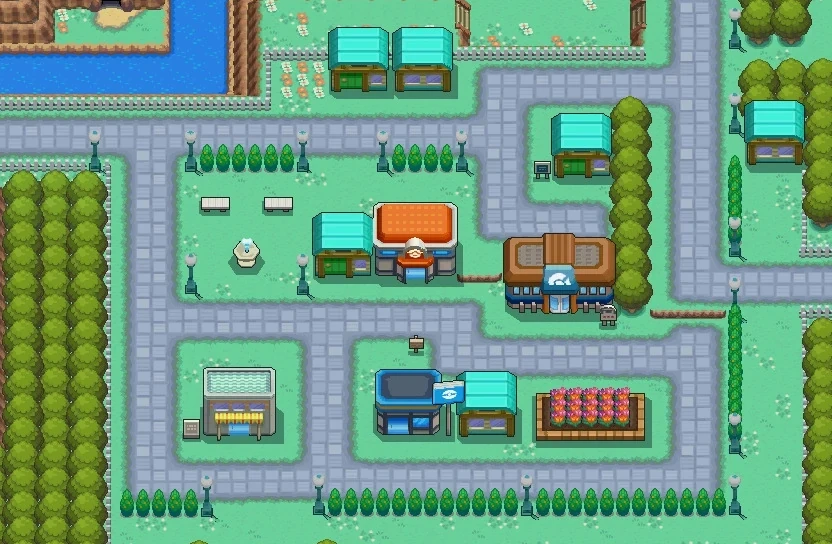
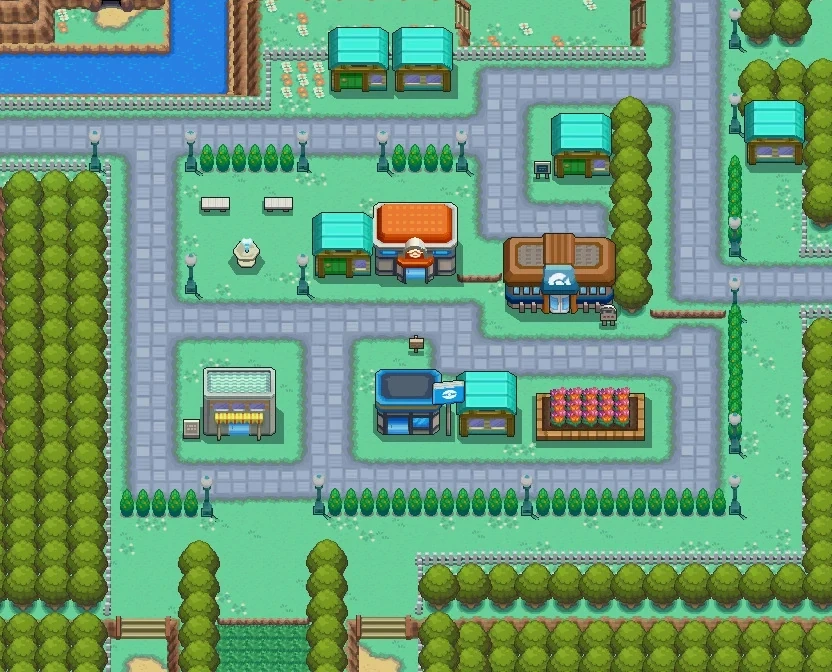
Round 37: all towns, gyms and trainer places

diff --git a/index.html b/index.html
@@ -974,7 +974,7 @@ const countIds=units=>units.reduce((s,u)=>s+u.ids.length,0);
 const answeredIn=(units,ans)=>units.reduce((s,u)=>s+u.ids.filter(id=>id in ans).length,0);
 
 // ---------- state ----------
-const BUILDV='1794760073';
+const BUILDV='1794762364';
 // background music: one track at a time, crossfaded
 const BGM={cur:null,a:null},MUS_OGG=new Set(['mus-route29','mus-cycling','mus-surfing','mus-lab','mus-wild','mus-trainer']);
 function fadeAudio(a,to,ms,done){if(!a)return;clearInterval(a._f);const from=a.volume,t0=performance.now();a._f=setInterval(()=>{const k=Math.min(1,(performance.now()-t0)/ms);a.volume=Math.max(0,Math.min(1,from+(to-from)*k));if(k>=1){clearInterval(a._f);done&&done()}},40)}
@@ -2803,9 +2803,19 @@ function lakeSci(){const el=$('#lksci'),R=S.lakeRes;if(el&&R)el.textContent=ll(`
 // TOWN comes from app/town_build.py (pictures, tile grids, spawn tiles, gym doors, exits, the gym room). A leg = walk to a target
 // (the town's exit arrow or its gym door) on a clock; whoever is late gets Alakazam's teleport (exit) or a Pidgeot ride (door).
 // Legs with balls give the first three an Ultra / Great / Poké Ball for the league ('walk').
-const TOWN=/*TOWN*/{"pallet":{"img":"img/tw-pallet.webp","w":384,"h":400,"t":16,"map":["########################","########################","########################","########################","########################","########################","############gg##########","############gg##########","##gggggggggggggggggggg##","##gggggggggggggggggggg##","##gggggggggggggggggggg##","##ggg#####gggg#####ggg##","##ggg#####gggg#####ggg##","##gg######ggg######ggg##","##gggggggggggggggggggg##","##gggggggggggggggggggg##","##gggggggggggggggggggg##","##ggg#####ggg#######gg##","##ggggggggggg#######gg##","##ggggggggggg#######gg##","##ggg#gggggggggggggggg##","##gggggggggggggggggggg##","##ggggggggggg######ggg##","##ggggg####ggggggggggg##","##ggggg####ggggggggggg##"],"over":[[5,9,9,13,154],[14,9,18,13,154],[13,15,19,19,250]],"spawn":[[8,14],[9,14],[10,14],[11,14],[12,14],[8,15],[9,15],[10,15],[11,15],[12,15],[8,16],[9,16],[10,16],[11,16],[12,16]],"door":null,"exit":[[12,6],[13,6]],"edge":"u"},"pewter":{"img":"img/tw-pewter.webp","w":900,"h":600,"t":16.666666666666668,"map":["######################################################","######################################################","######################################################","######################################################","######################################################","#################ggggggggg############################","#################ggggggggg#ggggggggggg#######g########","##ggggggg###g##ggggggggggg#gggg###gggg#######g########","####ggggg###g##ggggg#######gggg###gggg#######g########","####gggggggggggggggg#######gggg###gggg#######g########","###########ggggggggg#######gggg###gggg#######g########","###########ggggggggggggggggggggggggggg#######g########","############gggggggggggggggggggggggggggggggggg########","############gggggggggggggggggggggggggggggggggg########","############gg######gggggggggggggggggggggggggg########","###############gggggggggggggggggggg######ggggg########","###############gggggggggggggggggggg###################","###############ggggggggg#######gggg###################","###############ggggggggg#######gggg############ggggggg","###############gg##############ggggggggggggggggggggggg","###############gg##############ggggggggggggggggggggggg","###############gg##############gggggggggggggg##ggggggg","###############gg#######ggggggggggggggggggggg#########","###############gg#######gggggggggggggg################","###############ggggggggggggggggggggggg################","###############ggggggggggggggggggggggg################","###############ggggggggggggggggggggggg################","###############ggggggggggggggggggggggg################","#############################ggggggggg################","#############################ggggggggggg##############","###################################ggggg##############","###################################ggggg##############","###################################ggggg##############","###################################ggggg##############","###################################ggggg##############","###################################ggggg##############"],"spawn":[[35,32],[36,32],[37,32],[38,32],[39,32],[35,33],[36,33],[37,33],[38,33],[39,33],[35,34],[36,34],[37,34],[38,34],[39,34]],"door":[[5,7],[4,7],[6,7]],"exit":[[53,18],[53,19],[53,20],[53,21]],"edge":"r","over":[[17,17,23,23,287],[24,15,30,21,256],[35,14,40,18,233],[41,14,46,18,238],[38,5,44,11,84]]},"cerulean":{"img":"img/tw-cerulean.webp","w":832,"h":544,"t":16,"map":["##########################################ggg#######","##########################################ggg#######","##########################################ggg#######","##########################################ggg#######","##########################################ggg#######","##########################################ggg#######","#######ggggggggggggggggggggggggggggggg###gggg#######","gggggggggggggggggggggggggggggggggggggg###gggg#######","gggggggggggggggggggggggggggggggggggggg###gggg#######","gggggggggggg#######ggggg#####ggggg#######gggg#######","#######ggggg#######ggggg#####ggggg#######gggg#######","#######ggggggggggggggggggggggggggggggg###gggg#######","#######ggggg##gg###ggggggggggggggggggg###gggg#######","#######ggggggggggggggggggggggggggggggg###gggg#######","#######gggggggggggg##########ggggggggg###gggg#######","#######ggggggg##ggg##########ggggggggg###gggg#######","#######ggggggg##ggg##########gg##########ggggggggggg","#######gggggggggggg##########gg##########ggggggggggg","#######gggggggggggggggggggggggg##########ggggggggggg","#######gggggggggggggggggggggggg##########gggg#######","#######gggggggggggggggggggggggggggggggggggggg#######","#######gggggggggggggggggggggggggggggggggggggg#######","#######gggggggggggggggggggggggggggggggggggggg#######","#######gggggggggggggggggggggggggggggggggggggg#######","#######gggggggggggggggggggggggggg########gggg#######","#######ggggg######ggggg##################gggg#######","#######ggggg######ggggg##################gggg#######","#######ggggg######ggggg##################gggg#######","#######gggggggggggggggggggggggggggggggggggggg#######","#######gggggggggggggggggggggggggggggggggggggg#######","#######gggggggggggggggggggggggggggggggggggggg#######","####################################################","####################################################","####################################################"],"spawn":[[0,7],[1,7],[2,7],[3,7],[4,7],[0,8],[1,8],[2,8],[3,8],[4,8],[0,9],[1,9],[2,9],[3,9],[4,9]],"door":[[34,20],[35,20],[36,20]],"exit":null,"edge":null,"over":[[19,12,28,17,202],[31,14,38,19,233],[34,7,38,10,113],[12,23,17,27,368],[23,23,32,27,369]]},"gym":{"img":"img/tw-gym.webp","w":192,"h":244,"t":16,"lect":[5.5,5],"view":[1,3,11,11],"seats":[[6,8],[5,8],[7,8],[4,8],[8,8],[3,8],[9,8],[6,10],[5,10],[7,10],[4,10],[8,10],[5,12],[6,12],[2,12],[9,12],[1,12],[10,12]]},"gym2":{"img":"img/tw-gym2.webp","w":272,"h":272,"t":16,"lect":[8,2.9],"view":[3,1,13,11],"seats":[[6,7],[7,7],[8,7],[9,7],[10,7],[5,7],[11,7],[4,7],[12,7],[5,10],[6,10],[7,10],[8,10],[4,10],[9,11],[9,12],[7,13],[8,13],[9,13],[7,14],[8,14],[9,14]]}}/*/TOWN*/;
-const TW_NAME={pallet:['פאלט טאון','PALLET TOWN'],pewter:['פיוטר סיטי','PEWTER CITY'],cerulean:['סרוליאן סיטי','CERULEAN CITY']};
-const TW_LEGS={'w-pewter':[{town:'pallet',to:'exit'},{town:'pewter',to:'door'}],'w-cerulean':[{town:'pewter',to:'exit',from:'door',balls:true},{town:'cerulean',to:'door'}]};
+const TOWN=/*TOWN*/{"pallet":{"img":"img/tw-pallet.webp","w":384,"h":400,"t":16,"map":["########################","########################","########################","########################","########################","########################","############gg##########","############gg##########","##gggggggggggggggggggg##","##gggggggggggggggggggg##","##gggggggggggggggggggg##","##ggg#####gggg#####ggg##","##ggg#####gggg#####ggg##","##gg######ggg######ggg##","##gggggggggggggggggggg##","##gggggggggggggggggggg##","##gggggggggggggggggggg##","##ggg#####ggg#######gg##","##ggggggggggg#######gg##","##ggggggggggg#######gg##","##ggg#gggggggggggggggg##","##gggggggggggggggggggg##","##ggggggggggg######ggg##","##ggggg####ggggggggggg##","##ggggg####ggggggggggg##"],"over":[[5,9,9,13,154],[14,9,18,13,154],[13,15,19,19,250]],"spawn":[[8,14],[9,14],[10,14],[11,14],[12,14],[8,15],[9,15],[10,15],[11,15],[12,15],[8,16],[9,16],[10,16],[11,16],[12,16]],"door":null,"exit":[[12,6],[13,6]],"edge":"u"},"pewter":{"img":"img/tw-pewter.webp","w":900,"h":600,"t":16.666666666666668,"map":["######################################################","######################################################","######################################################","######################################################","######################################################","#################ggggggggg############################","#################ggggggggg#ggggggggggg#######g########","##ggggggg###g##ggggggggggg#gggg###gggg#######g########","####ggggg###g##ggggg#######gggg###gggg#######g########","####gggggggggggggggg#######gggg###gggg#######g########","###########ggggggggg#######gggg###gggg#######g########","###########ggggggggggggggggggggggggggg#######g########","############gggggggggggggggggggggggggggggggggg########","############gggggggggggggggggggggggggggggggggg########","############gg######gggggggggggggggggggggggggg########","###############gggggggggggggggggggg######ggggg########","###############gggggggggggggggggggg###################","###############ggggggggg#######gggg###################","###############ggggggggg#######gggg############ggggggg","###############gg##############ggggggggggggggggggggggg","###############gg##############ggggggggggggggggggggggg","###############gg##############gggggggggggggg##ggggggg","###############gg#######ggggggggggggggggggggg#########","###############gg#######gggggggggggggg################","###############ggggggggggggggggggggggg################","###############ggggggggggggggggggggggg################","###############ggggggggggggggggggggggg################","###############ggggggggggggggggggggggg################","#############################ggggggggg################","#############################ggggggggggg##############","###################################ggggg##############","###################################ggggg##############","###################################ggggg##############","###################################ggggg##############","###################################ggggg##############","###################################ggggg##############"],"spawn":[[35,32],[36,32],[37,32],[38,32],[39,32],[35,33],[36,33],[37,33],[38,33],[39,33],[35,34],[36,34],[37,34],[38,34],[39,34]],"door":[[5,7],[4,7],[6,7]],"exit":[[53,18],[53,19],[53,20],[53,21]],"edge":"r","over":[[17,17,23,23,287],[24,15,30,21,256],[35,14,40,18,233],[41,14,46,18,238],[38,5,44,11,84]]},"cerulean":{"img":"img/tw-cerulean.webp","w":832,"h":672,"t":16,"map":["##########################################ggg#######","##########################################ggg#######","##########################################ggg#######","##########################################ggg#######","##########################################ggg#######","##########################################ggg#######","#######ggggggggggggggggggggggggggggggg###gggg#######","gggggggggggggggggggggggggggggggggggggg###gggg#######","gggggggggggggggggggggggggggggggggggggg###gggg#######","gggggggggggg#######ggggg#####ggggg#######gggg#######","#######ggggg#######ggggg#####ggggg#######gggg#######","#######ggggggggggggggggggggggggggggggg###gggg#######","#######ggggg##gg###ggggggggggggggggggg###gggg#######","#######ggggggggggggggggggggggggggggggg###gggg#######","#######gggggggggggg##########ggggggggg###gggg#######","#######ggggggg##ggg##########ggggggggg###gggg#######","#######ggggggg##ggg##########gg##########ggggggggggg","#######gggggggggggg##########gg##########ggggggggggg","#######gggggggggggggggggggggggg##########ggggggggggg","#######gggggggggggggggggggggggg##########gggg#######","#######gggggggggggggggggggggggggggggggggggggg#######","#######gggggggggggggggggggggggggggggggggggggg#######","#######gggggggggggggggggggggggggggggggggggggg#######","#######gggggggggggggggggggggggggggggggggggggg#######","#######gggggggggggggggggggggggggg########gggg#######","#######ggggg######ggggg##################gggg#######","#######ggggg######ggggg##################gggg#######","#######ggggg######ggggg##################gggg#######","#######gggggggggggggggggggggggggggggggggggggg#######","#######gggggggggggggggggggggggggggggggggggggg#######","#######gggggggggggggggggggggggggggggggggggggg#######","#######gggggggggggggggggggg#########################","#######gggggggggggggggggggg#########################","#######gggggggggggggggggggg#########################","#####################ggggg##########################","#####################ggggg##########################","#####################ggggg##########################","#####################ggggg##########################","#####################ggggg##########################","#####################ggggg##########################","#####################ggggg##########################","#####################ggggg##########################"],"spawn":[[0,7],[1,7],[2,7],[3,7],[4,7],[0,8],[1,8],[2,8],[3,8],[4,8],[0,9],[1,9],[2,9],[3,9],[4,9]],"door":[[34,20],[35,20],[36,20]],"exit":[[22,41],[23,41],[24,41]],"edge":"d","over":[[19,12,28,17,202],[31,14,38,19,233],[34,7,38,10,113],[12,23,17,27,368],[23,23,32,27,369]]},"vermilion":{"img":"img/tw-vermilion.webp","w":768,"h":640,"t":16,"map":["######################ggg#######################","######################ggg#######################","######################ggg#######################","######################ggg#######################","######################ggg#######################","######################ggg#######################","######################ggg#######################","########gg###gggggggggggggggggggggggggggg#######","########gggggggggggggggggggggggg#######gg#######","########gggggggggggggggggggggggg#ggggg#gg#######","##############gggggggggggggggggg#gg#gg#gg#######","##############gggggggggggggggggg#g#g#g#gg#######","####################gggggggggggg#gg#gg#gg#######","####################gggggggggggg#ggggg#gg#######","######################ggggg####g#######gg#######","########ggg#####gg####ggggg####gggggggggg#######","########ggg#####gg####ggggg####gggggggggg##ggggg","########gg######gg####ggggg#################gggg","########ggggg###gggg##gggggggggggg#ggggggggggggg","########gggggggggggggggggggggggggggggggggggggggg","########ggggggggggggggggggggggggggg###gggggggggg","########ggggggggggggggggggg#######g###g#########","########ggggggggggggggggggg#######g###g#########","########gg##ggggg#gg####ggg#######g###g#########","###################g####ggg#######g###g###ggggg#","########ggg#######gg####ggggg######ggg####ggggg#","########gggggggggggg###############ggg####ggggg#","########gggggggggggg###############ggg####ggggg#","########gggggggggggg##gggggggggggggggg##########","######################gggggggggggggggg##########","######################gggggggggggggggg##########","######################ggg#######################","######################ggg#######################","######################ggg#######################","################################################","################################################","################################################","################################################","################################################","################################################"],"spawn":[[22,1],[23,1],[24,1],[22,2],[23,2],[24,2],[22,3],[23,3],[24,3]],"door":[[13,26],[14,26],[15,26]],"exit":[[47,18],[47,19],[47,20]],"edge":"r"},"celadon":{"img":"img/tw-celadon.webp","w":960,"h":640,"t":16,"map":["############################################################","############################################################","####gggggggggggggggggggggggggggggggggggggggggggggggggggg####","####ggggggggggggggggggggg#############gg##############gg####","####ggg##gggggggggggggg###############gg##############gg####","######################################gg##############gg####","########g###############ggg######ggggggggggggggggggg##gg####","#########################gg#######gggggg##gggg#####g##gg####","#########################gg##########g#######g#####g##gg####","#########################gg########################g########","###########g###g#########gg########################g########","###########g###g#########g#########################g########","####ggggg#########gggggggggggggggggg#gg#gg#ggggggggggggggggg","####ggggg#########gggggggggggggggggggggggggggggggggggggggggg","####ggggg##########ggggggggggggggggggggggggggggggggggggggggg","####gggggggggggggggggggggggggggggggggggggggggggggggg########","####gggggggggggggggggggg######ggg#gggggggggggggggggg########","####ggggggggggggggggggg##################ggggg##gggg########","####ggggggg#ggg#gggggg###################ggg#######g########","####gggggggg###gggggggg#gggggg###########ggg################","####gggggg#g###g#gggggg#gggggg###########ggg##########gg####","####ggggggggg#ggggggggg################g#ggg##########gg####","ggggggggggg#ggg#ggggggg########ggggggggggggggg#gg#gggggg####","ggggggggggggggggggggggg##################ggg##########gg####","gggggggggggggggggggggggggggggggggggggggggggggggggggg##gg####","########gggggggggggggggggggggggggggggg##gg##gggggg####gg####","#######g###########ggggggggggggg###g###########g######gg####","#######################ggggggggg######################gg####","########################gggggggg######################gg####","########################gggggggg######################gg####","#####g#g##########g#####ggggggggg#g#gggggggg#g#ggggggggg####","####g#g#ggggggg##g#g####gggggggggggggggggggggggggggggggg####","#####gggggggggggg#g#####ggggggggggggggggggggggggggggggg#####","##########gg############################g##########ggggg####","####g#gggggggggggggg####################g##########gggg#####","#####ggggggggggggggggggg################g##########gg#######","####g#g#gggggggggggggggggggggggggggggggggg##gggggggg#g######","############################################################","############################################################","############################################################"],"spawn":[[55,12],[56,12],[57,12],[58,12],[55,13],[56,13],[57,13],[58,13],[55,14],[56,14],[57,14],[58,14]],"door":[[10,31],[11,31],[12,31]],"exit":[[0,22],[0,23],[0,24]],"edge":"l"},"fuchsia":{"img":"img/tw-fuchsia.webp","w":768,"h":640,"t":16,"map":["######################gggggg####################","######################gggggg####################","######################gggggg####################","#######################gggg#####################","################################################","##gggggggggggggggggggg######gggggggggggggggggg##","##ggg##############gggggggggggg#############gg##","##ggg##############gg##ggg###gg#############gg##","##ggg########ggggg#gggggggggggg#gggg##ggggg#gg##","##ggg########ggggg#gggggggggggg#gggg##ggggg#gg##","##ggg##############gggg#######g#############gg##","##gggggggggggggggggggg#ggggggggggggggggggggggg##","##ggggggg####ggggggggg#ggg#gggg#g#########gggg##","##ggggggg############g#gggggggggg#########gggg##","##ggggggg####gggggggggggggggggggg#ggggggg#gggg##","##ggggggg####gggggggggggg#######g#ggggggg#gggg##","##ggggggggggggggggggggggg#######g#########gggg##","#################gggggggg#gggggggggggggggggggg##","ggggggg###########ggggggg##ggg##gggggggggggggg##","ggggggg##########g#gggggg#gggggg################","ggggggg###########g#g#ggg#gggggggggggggggggggggg","ggggggg##########g#g#g#gg#gggggggggggggggggggggg","##ggggg#################g#gggggggggggggggggggggg","##ggggggggggggggggggggggggggggg############ggg##","##ggggggggggggggggggggggggggggg##gg########ggg##","##ggggggggggggggggggggggggggggg#g#g########gg###","##gg#########################gg##gg########gg###","##gg#########################gg#gggggggggg#gg###","##gg#########################gg############gg###","##gg#########################gg############gg###","##gg#g#######################gg###########ggg###","##gg#########################gg###########ggg###","##gg#########ggggggggggggggg#gggggggggggggggg###","##gg#ggggggggggggggggggggggg#gg#####ggg####gg###","##gg#ggggggggggggggggggggggg#gggggggggggggggg###","##gg#####ggg#######ggg########ggggggggggggggg###","##gggggggggg#######gggggggggg###################","###################gggggggggg###################","###################gggggggggg###################","###################gggggggggg###################"],"spawn":[[0,19],[1,19],[2,19],[3,19],[0,20],[1,20],[2,20],[3,20]],"door":[[8,33],[9,33],[10,33]],"exit":[[47,20],[47,21],[47,22]],"edge":"r"},"saffron":{"img":"img/tw-saffron.webp","w":688,"h":656,"t":16,"map":["###########################################","###########################################","####################gggg###################","##gg#gg##gg##gg#gggggggg###################","##gg############gggggggg###################","##gg############gggggggg#g###########gggg##","##gg############ggggggggggggg#ggggggg#ggg##","##gg#################ggg########ggg########","##gggggggggggggggggggggggggggggggggggggg###","##gggggggggggggg#########ggggggggggggggg###","##ggg#gg#gggg#gg#########gggggggg#gg#ggg###","##ggg#####gg##################gg#####ggg###","##ggg################################ggg###","##ggg################################ggg###","##ggg################################ggg###","##ggggggggggggg###########gggggggggg#ggg###","g#ggggggggggggg###########gggggggggggggg#gg","##ggggggggggggg###########gggggggggggggg###","#ggggg#############################gggggg#g","#ggggg#gg###gg############gg###gg##gggggggg","#ggggg#############################gggggggg","#ggggg#############################gggggggg","##gggg#############################ggggg###","##ggg##############################ggggg###","##gggg###########gggggggg##########ggggg###","##gggggggggggggggggggggggggggggggggggggg###","##gggggggggggggggggggggggggggggggggggggg###","##ggg#gg######gggg#gg##gg#gg#ggg##gg#ggg###","##ggg##########gg#########gg#########ggg###","##ggg################################ggg###","##ggg#####################g##########ggg###","##ggg#####################g##########ggg###","##gggggggggggggggggggggggggggggggggggggg###","##gggggggggggggggggggggggggggggggggggggg###","##gggg#gg##gg##gg#gggggggg#gg##gg##gg#gg###","##gggg############gggggggg############gg###","##################gggggggg#################","###################gggggg##################","####################gggg###################","####################gggg###################","####################gggg###################"],"spawn":[[20,37],[21,37],[22,37],[20,38],[21,38],[22,38],[20,39],[21,39],[22,39]],"door":[[32,6],[33,6],[34,6]],"exit":[[42,19],[42,20],[42,21]],"edge":"r"},"cinnabar":{"img":"img/tw-cinnabar.webp","w":384,"h":320,"t":16,"map":["############gg##########","############gggg########","############ggggg#######","#############gggg#######","#####gg###ggggggg#######","#####ggggggggggggggggg##","############ggggggggggg#","#################gggggg#","###################gggg#","###################gggg#","#####gggg##g#######gggg#","#####ggggggg#######gggg#","########ggggggggggggggg#","########ggggggggggggggg#","########ggggggggggggggg#","########################","########################","########################","########################","########################"],"spawn":[[19,8],[20,8],[21,8],[22,8],[19,9],[20,9],[21,9],[22,9],[19,10],[20,10],[21,10],[22,10],[19,11],[20,11],[21,11],[22,11],[19,12],[20,12],[21,12],[22,12]],"door":[[19,5],[20,5],[21,5]],"exit":[[12,0],[13,0]],"edge":"u"},"route5":{"img":"img/tw-route5.webp","w":320,"h":559,"t":16,"map":["#gggg#gggggggg#gggg#","#gggg#gggggggg#gggg#","#gggg#gggggggg#gggg#","#gggg#gggggggg#gggg#","#gggg#gggggggg#gggg#","#gggg#gggggggg#gggg#","#gggg#gggggggg#gggg#","#gggg#gggggggg#gggg#","#gggg#gggggggg#gggg#","#gggg#gggggggg#gggg#","#gggg#gggggggg#gggg#","#gggg#gggggggg#gggg#","#gggg#gggggggg#gggg#","#gggg#gggggggg#gggg#","#gggg#gggggggg#gggg#","#gggg#gggggggg#gggg#","#gggg#gggggggg#gggg#","#gggg#gggggggg#gggg#","#gggg#gggggggg#gggg#","#gggg#gggggggg#gggg#","#gggg#gggggggg#gggg#","#gggg#g#####gg#gggg#","#gggg#g#####gg#gggg#","#gggg#g#####gg#gggg#","#gggg#g#####gg#gggg#","#gggg#g#ggg#gg#gggg#","#gggg#gggggggg#gggg#","#ggggggggggggggg####","#ggggggggggggggg####","#ggggggggggggggg####","#ggggggggggggggg####","#ggggggg#gggg#gg####","#ggggggg######gggg##","####################"],"spawn":[[7,0],[8,0],[9,0],[10,0],[11,0],[12,0],[7,1],[8,1],[9,1],[10,1],[11,1],[12,1],[7,2],[8,2],[9,2],[10,2],[11,2],[12,2]],"door":[[8,25],[9,25],[10,25]],"exit":[[10,31],[11,31]],"edge":"d"},"route16":{"img":"img/tw-route16.webp","w":768,"h":320,"t":16,"map":["################################################","################################################","################################################","##g#############################################","################################################","##ggggggg#####gggggg########gggggggggggggg######","##gggggggggggggggggg########gggggggggggggg######","##gggggggggggggggggg########gggggggggggggg######","##ggggggggggggggggggg######ggggggggggggggg######","##ggggggggggggggggggg######ggggggggggggggg######","##############################gggggggggggg######","##gggggggggggggggggg#######ggg###########gg#ggg#","##gggggggggggggggggggggggggggg###ggggggggggggggg","##gggggggggggggggggggggggggggggggggggggggggggggg","##gggggggggggggggggggggggggggg###ggggggggggggggg","##ggggggggggggg#################################","##ggggggggggggg#################################","##ggggggggggggg#################################","##ggggggggggggg#################################","##ggggggggggggg#################################"],"spawn":[[44,11],[45,11],[46,11],[44,12],[45,12],[46,12],[44,13],[45,13],[46,13]],"door":[[27,12],[27,13]],"exit":[[6,19],[7,19],[8,19],[9,19],[10,19]],"edge":"d"},"lavender":{"img":"img/tw-lavender.webp","w":384,"h":320,"t":16,"map":["########ggggg###########","#########gggg###########","#########gggg###########","#########gggg###########","#########ggg############","#ggg#####gggg###########","#gggggggggggg###########","#gggggggggggggggggggg###","#ggggggg#####ggggggggg##","gggggggg#####ggggggggg##","gggggggg#####ggggggggg##","ggggggg######gg#gggggg##","gggggggggggggggggg######","gggg#########ggggg######","#gg##########ggggg######","#gg##########ggggg######","#gg##########ggggggggg##","#ggggggggggggggggggggg##","#ggggggggggggggggggggg##","###########gg###########"],"spawn":[[1,10],[2,10],[3,10],[1,11],[2,11],[3,11],[1,12],[2,12],[3,12],[1,13],[2,13],[3,13]],"door":[[17,7],[18,7],[19,7]],"exit":[[11,19],[12,19]],"edge":"d"},"viridian":{"img":"img/tw-viridian.webp","w":768,"h":640,"t":16,"map":["###################ggggg########################","###################gggg#########################","###################ggggg########################","###################ggggg########################","###################ggggg####gggggggggggggg######","########gg########gggggggggggggggggggggggg######","########g##########gggggggggggggg######ggg######","########g###########ggggggggggggg######ggg######","########g##########ggggg#####gggg######ggg######","########g###########ggg######ggg#######ggg######","########g##########ggggg#####ggg#######ggg######","########g###########ggg######ggggggggggggg######","########g##########gggggggg########ggg##########","########g###########ggggggggggggggggggg#g#######","########g##########ggggggggggggggggggg#g#g######","######ggg###########gggg########################","ggggggggg##########g#gg#####gggggg####gggg######","gggggggggggggggggggggggg####gggggg####gggg######","ggggggggggggggggggggggg#####gggggg####gggg######","ggggggggggggggggggggggggg###gggggg####gggg######","#######ggggggggggggggggggggggggggggggggggg######","#######ggggggggggggggggggggggggggggggggggg######","###########ggggggggggggg#####ggggggggggggg######","###########g##gggggggggg#####ggggg#g#ggggg######","###########g##gggggggggg#####gggggg#g#gggg######","#######ggggg##gggggggggg#####ggggg#g#ggggg######","#######gggg######ggggggg#####gggggg#g#gggg######","#######gggg######ggggggggggggggggggggggggg######","#######gggg######ggggggggggggggggggggggggg######","#######gggg######ggggggggggggggggggggggggg######","####################ggg#########################","#######gggg######ggg#ggggggg#g#g#ggg#g#g#g######","#######ggggggggggggggggggggggggggggggggggg######","##############gggggggggggggggggggggggggggg######","##############gggggggggggggggggggggggggggg######","######################gggg######################","######################gggg######################","######################gggg######################","######################gggg######################","######################gggg######################"],"spawn":[[22,36],[23,36],[24,36],[25,36],[22,37],[23,37],[24,37],[25,37],[22,38],[23,38],[24,38],[25,38]],"door":[[35,11],[36,11],[37,11]],"exit":null,"edge":null},"gym":{"img":"img/tw-gym.webp","w":192,"h":244,"t":16,"lect":[5.5,5],"view":[1,3,11,11],"seats":[[6,8],[5,8],[7,8],[4,8],[8,8],[3,8],[9,8],[6,10],[5,10],[7,10],[4,10],[8,10],[5,12],[6,12],[2,12],[9,12],[1,12],[10,12]]},"gym2":{"img":"img/tw-gym2.webp","w":272,"h":272,"t":16,"lect":[8,2.9],"view":[3,1,13,11],"seats":[[6,7],[7,7],[8,7],[9,7],[10,7],[5,7],[11,7],[4,7],[12,7],[5,10],[6,10],[7,10],[8,10],[4,10],[9,11],[9,12],[7,13],[8,13],[9,13],[7,14],[8,14],[9,14]]},"gym3":{"img":"img/tw-gym3.webp","w":464,"h":388,"t":16,"lect":null,"view":[10,9,18,15],"seats":[[14,13],[13,13],[15,13],[12,13],[16,13],[11,13],[17,13],[14,14],[13,14],[15,14],[12,14],[16,14],[11,14],[17,14]]},"gym4":{"img":"img/tw-gym4.webp","w":320,"h":372,"t":16,"lect":[2,2],"view":[0,1,6,8],"seats":[[2,4],[1,4],[3,4],[2,5],[1,5],[3,5],[2,6],[1,6],[3,6],[2,7],[1,7],[3,7]]},"gym5":{"img":"img/tw-gym5.webp","w":176,"h":336,"t":16,"lect":[5,2],"view":[0,0,10,6],"seats":[[5,3],[4,3],[6,3],[3,3],[7,3],[2,3],[8,3],[5,4],[4,4],[6,4],[3,4],[7,4],[2,4],[8,4]]},"gym6":{"img":"img/tw-gym6.webp","w":208,"h":320,"t":16,"lect":[6,4],"view":[1,2,11,12],"seats":[[6,10],[5,10],[7,10],[4,10],[8,10],[3,10],[9,10],[6,11],[5,11],[7,11],[4,11],[8,11],[3,11],[9,11]]},"gym7":{"img":"img/tw-gym7.webp","w":240,"h":368,"t":16,"lect":[7,13],"view":[3,10,11,17],"seats":[[7,15],[6,15],[8,15],[5,15],[9,15],[4,15],[10,15],[7,16],[6,16],[8,16],[5,16],[9,16],[4,16],[10,16]]},"gym8":{"img":"img/tw-gym8.webp","w":1000,"h":727,"t":26,"cs":1.625,"lect":[5.2,4.4],"view":[0.6,0.3,10.4,8.4],"seats":[[5.3,5.8],[4.3,5.8],[6.3,5.8],[3.3,5.8],[7.3,5.8],[2.3,5.8],[8.3,5.8],[5.3,6.8],[4.3,6.8],[6.3,6.8],[3.3,6.8],[7.3,6.8],[2.3,6.8],[8.3,6.8]]},"gymOf":{"pewter":"gym","cerulean":"gym2","vermilion":"gym5","celadon":"gym6","fuchsia":"gym7","saffron":"gym3","cinnabar":"gym8","viridian":"gym4"}}/*/TOWN*/;
+const TW_NAME={pallet:['פאלט טאון','PALLET TOWN'],pewter:['פיוטר סיטי','PEWTER CITY'],cerulean:['סרוליאן סיטי','CERULEAN CITY'],vermilion:['ורמיליון סיטי','VERMILION CITY'],route5:['דרך 5 · המעון','ROUTE 5 · DAY CARE'],route16:['דרך 16 · שער האופניים','ROUTE 16 · CYCLING ROAD'],lavender:['לבנדר טאון','LAVENDER TOWN'],celadon:['סלדון סיטי','CELADON CITY'],fuchsia:['פוקסיה סיטי','FUCHSIA CITY'],saffron:['סאפרון סיטי','SAFFRON CITY'],cinnabar:['סינבאר איילנד','CINNABAR ISLAND'],viridian:['ווירידיאן סיטי','VIRIDIAN CITY']};
+const TW_LEGS={'w-pewter':[{town:'pallet',to:'exit'},{town:'pewter',to:'door'}],'w-cerulean':[{town:'pewter',to:'exit',from:'door',balls:true},{town:'cerulean',to:'door'}],
+ 'w-daycare':[{town:'cerulean',to:'exit',from:'door',balls:true},{town:'route5',to:'door',place:true}],'w-vermilion':[{town:'route5',to:'exit',from:'door',balls:true},{town:'vermilion',to:'door'}],
+ 'w-celadon':[{town:'vermilion',to:'exit',from:'door',balls:true},{town:'celadon',to:'door'}],
+ 'w-route16':[{town:'celadon',to:'exit',from:'door',balls:true},{town:'route16',to:'door',place:true}],'w-fuchsia':[{town:'route16',to:'exit',from:'door',balls:true},{town:'fuchsia',to:'door'}],
+ 'w-saffron':[{town:'fuchsia',to:'exit',from:'door',balls:true},{town:'saffron',to:'door'}],
+ 'w-lavender':[{town:'saffron',to:'exit',from:'door',balls:true},{town:'lavender',to:'door',place:true}],'w-cinnabar':[{town:'lavender',to:'exit',from:'door',balls:true},{town:'cinnabar',to:'door'}],
+ 'w-viridian':[{town:'cinnabar',to:'exit',from:'door',balls:true},{town:'viridian',to:'door'}]};
+// where each walk goes in the evening: before a part's intro slide (after its trainer) or before a course's first slide
+const TW_AT=[['w-cerulean',{course:2}],['w-daycare',{before:'x-trainer-1'}],['w-vermilion',{before:'x-part-2'}],['w-celadon',{course:4}],['w-route16',{before:'x-trainer-2'}],['w-fuchsia',{before:'x-part-3'}],['w-saffron',{course:6}],['w-lavender',{before:'x-trainer-3'}],['w-cinnabar',{before:'x-part-4'}],['w-viridian',{course:8}]];
+// the town whose gym we are sitting in: the last walk before this slide, unless a round, break, trainer or summary came after it
+function twMiniTown(){const it=cur();if(!it)return null;let a=-1;for(let i=POS;i>=0;i--){if(SEQ[i].kind==='town'){a=i;break}if(/^x-(round|break|trainer|sum)-/.test(SEQ[i].id))return null}if(a<0)return null;const L=TW_LEGS[SEQ[a].id]||[];return L[L.length-1]?.town||null}
 const twOn=()=>!ROOM.legacy&&!!TOWN.pallet,twT=()=>S.fastOn?10:20;
 function twNew(town){return {town,sid:(Date.now()%1e9)|0,pos:{},ph:'free',to:null,end:0,order:[],tgt:null,dist:null}}
 const twOk=(T,x,y)=>x>=0&&y>=0&&y<T.map.length&&x<T.map[0].length&&T.map[y][x]==='g';
@@ -2849,7 +2859,7 @@ function twGone(id,P,how){const tw=S.tw;if(P.done)return;P.done=true;P.to=null;t
 function twTick(){const tw=S.tw,hud=$('#twhud');if(!hud)return;
   if(tw.ph==='free'){if(hud.dataset.k!=='free'){hud.dataset.k='free';hud.innerHTML=''}return}
   if(tw.ph==='go'){const left=Math.max(0,Math.ceil((tw.end-Date.now())/1000)),k='go'+left;
-    if(hud.dataset.k!==k){hud.dataset.k=k;const dest=tw.to==='exit'?ll(`כולם אל החץ! בדרך ל${twNextName()}`,`Everyone to the arrow! On to ${twNextName()}`):ll('כולם לג׳ים! הדלת המסומנת','Everyone into the gym! The marked door');
+    if(hud.dataset.k!==k){hud.dataset.k=k;const dest=tw.to==='exit'?ll(`כולם אל החץ! בדרך ל${twNextName()}`,`Everyone to the arrow! On to ${twNextName()}`):tw.leg?.place?ll('כולם לנקודת המפגש! שם מחכה המאמן','Everyone to the meeting point! The trainer is waiting there'):ll('כולם לג׳ים! הדלת המסומנת','Everyone into the gym! The marked door');
       hud.innerHTML=`<div class="twclock${left<=5?' low':''}"><b>${left}</b><span>${dest}</span>${tw.leg?.balls?`<em>${ll('הראשונים מקבלים','The first ones get')} <img src="img/${QBALL[1][0]}.webp" alt=""><img src="img/${QBALL[2][0]}.webp" alt=""><img src="img/${QBALL[3][0]}.webp" alt=""></em>`:''}</div>`}
     const ppl=twPpl();if(ppl.length&&ppl.every(p=>tw.pos[p.id]?.done))twLegEnd();else if(Date.now()>=tw.end)twHelp();return}
   if(tw.ph==='help'&&hud.dataset.k!=='help'){hud.dataset.k='help';hud.innerHTML=`<div class="twclock help"><span>${tw.to==='exit'?ll('אלכזאם עושה טלפורט למי שלא הגיע!','Alakazam teleports whoever is late!'):ll('פיג׳וט מעיף לג׳ים את מי שלא הגיע!','Pidgeot flies the latecomers to the gym!')}</span></div>`}}
@@ -2875,9 +2885,9 @@ function twHelp(){const tw=S.tw;if(tw.ph!=='go')return;tw.ph='help';twTick();con
 function twLegEnd(){const tw=S.tw;if(tw.ph==='done'||tw.ending)return;tw.ending=true;const it=cur(),legs=TW_LEGS[it?.id]||[];
   if(tw.leg?.balls&&tw.got){const w={...(S.league?.walk||{})};Object.entries(tw.got).forEach(([id,v])=>w[id]=(w[id]||0)+v);leagueSet('walk',w)}
   const next=(tw.legI||0)+1;
-  setTimeout(()=>{if(cur()!==it)return;if(next<legs.length)twLeg(it,next);else{tw.ph='done';S.twGym=it.id;gamePub();twGymBig(it)}},900)}
+  setTimeout(()=>{if(cur()!==it)return;if(next<legs.length)twLeg(it,next);else{tw.ph='done';S.twGym=it.id;gamePub();if(tw.leg?.place)go(1);else twGymBig(it)}},900)}
 function twLeg(it,i){const L=TW_LEGS[it.id][i];let tw=S.tw;
-  if(!tw||tw.town!==L.town){tw=S.tw=twNew(L.town);tw.from=L.from||'spawn'}else{tw.sid=(Date.now()%1e9)|0;Object.values(tw.pos).forEach(P=>{P.done=false;P.held=false;P.to=null})}
+  if(!tw||tw.town!==L.town||L.from){tw=S.tw=twNew(L.town);tw.from=L.from||'spawn'}else{tw.sid=(Date.now()%1e9)|0;Object.values(tw.pos).forEach(P=>{P.done=false;P.held=false;P.to=null})}
   tw.leg=L;tw.legI=i;tw.ph='go';tw.to=L.to;tw.end=Date.now()+twT()*1000;tw.order=[];tw.got={};tw.ending=false;const T=TOWN[L.town];tw.tgt=new Set(twCells(T,L.to).map(p=>p.join(',')));tw.dist=twBfs(T,twCells(T,L.to));
   const cv=$('#cv');cv.innerHTML=`<div class="st twst"></div>`;twMount(cv.firstElementChild,1920,1080,0,0);
   music(L.to==='door'?'mus-route101':'mus-ethan',{vol:.2});gamePub()}
@@ -2898,17 +2908,16 @@ function twBots(B){const tw=S.tw;if(!tw)return;const mv=S.mv||(S.mv={});
       mv[id]={d:bd&&Math.random()<.8?bd:Math.random()<.5?'':brnd(['u','d','l','r']),s:tw.sid}}
     else if(tw.ph==='free'&&Math.random()<.3)mv[id]={d:Math.random()<.4?'':brnd(['u','d','l','r']),s:tw.sid,t:Math.random()<.06?Date.now():(mv[id]?.t||0)}})}
 // the gym room in a corner during the lectures: everyone seated, the lecturer in front; a raised hand shows "!"
-function twMiniOn(){if(!twOn()||!S.slides)return false;const it=cur();if(it?.kind!=='slide')return false;const a=SEQ.findIndex(x=>x.kind==='town');if(a<0||POS<a)return false;
-  const e=SEQ.findIndex(x=>/^x-(sum|trainer)-1$/.test(x.id));return e<0||POS<e}
-const twGymOf=()=>(S.tw?.town==='cerulean'&&TOWN.gym2)||TOWN.gym;
+function twMiniOn(){if(!twOn()||!S.slides)return false;const it=cur();return it?.kind==='slide'&&!!twMiniTown()}
+const twGymOf=()=>{const t=twMiniTown()||S.tw?.town;return TOWN[TOWN.gymOf?.[t]]||TOWN.gym};
 // the gym room: the lecturer at the leader's spot, everyone seated facing them; drawn at k pixels per picture pixel, cut to view [x0,y0,x1,y1] (tiles) or whole
 function twGymInner(G,k,view){const t=G.t,c=t*k,[vx,vy]=view?view:[0,0],P=gamePlayers().filter(p=>lkAv(p)).slice(0,G.seats.length);
   const at=(x,y)=>`left:${(x+.5-vx)*c}px;top:${(y+.95-vy)*c}px`;
-  return `<img class="twgimg" src="${G.img}" alt="" style="width:${G.w*k}px;height:${G.h*k}px;left:${-vx*c}px;top:${-vy*c}px"><div class="twseat lect" style="${at(G.lect[0],G.lect[1])}"><i class="oaksp" style="${oakStyle()};background-position:${oakPos('d',0)};transform:scale(${(k/3).toFixed(3)})"></i></div>`+
-    P.map((p,i)=>{const[x,y]=G.seats[i],n=S.gIn[p.id].av;return `<div class="twseat" data-p="${p.id}" style="${at(x,y)};z-index:${Math.round(y*10)}"><i class="lks" style="${owStyle(n)};background-position:${owPos(n,'u',0)};transform:scale(${(k/2).toFixed(3)})"></i></div>`}).join('')}
+  return `<img class="twgimg" src="${G.img}" alt="" style="width:${G.w*k}px;height:${G.h*k}px;left:${-vx*c}px;top:${-vy*c}px">${G.lect?`<div class="twseat lect" style="${at(G.lect[0],G.lect[1])}"><i class="oaksp" style="${oakStyle()};background-position:${oakPos('d',0)};transform:scale(${(k/3*(G.cs||1)).toFixed(3)})"></i></div>`:''}`+
+    P.map((p,i)=>{const[x,y]=G.seats[i],n=S.gIn[p.id].av;return `<div class="twseat" data-p="${p.id}" style="${at(x,y)};z-index:${Math.round(y*10)}"><i class="lks" style="${owStyle(n)};background-position:${owPos(n,'u',0)};transform:scale(${(k/2*(G.cs||1)).toFixed(3)})"></i></div>`}).join('')}
 function twMiniK(G){return 290/((G.view[2]-G.view[0]+1)*G.t)}
 function twMiniHTML(){const G=twGymOf(),k=twMiniK(G),w=(G.view[2]-G.view[0]+1)*G.t*k,h=(G.view[3]-G.view[1]+1)*G.t*k;
-  return `<div class="twmini" id="twmini" style="width:${w}px;height:${h}px">${twGymInner(G,k,G.view)}<b class="twmn">${ll(...TW_NAME[S.tw?.town||'pewter'])} · GYM</b></div>`}
+  return `<div class="twmini" id="twmini" style="width:${w}px;height:${h}px">${twGymInner(G,k,G.view)}<b class="twmn">${ll(...TW_NAME[twMiniTown()||S.tw?.town||'pewter'])} · GYM</b></div>`}
 function twMiniPlace(){const m=$('#twmini'),cv=$('#cv'),sec=cv?.querySelector('section');if(!m||!sec)return;const R=cv.getBoundingClientRect(),z=R.width/1920;
   const boxes=[...sec.querySelectorAll('*'),...document.querySelectorAll('#roombadge,.segclock')].filter(e=>!e.closest('#twmini')).map(e=>{const r=e.getBoundingClientRect();return {x:(r.left-R.left)/z,y:(r.top-R.top)/z,w:r.width/z,h:r.height/z}}).filter(b=>b.w>2&&b.h>2&&b.w*b.h<1920*1080*.35);
   const w0=m.offsetWidth,h0=m.offsetHeight,hit=(x,y,w,h)=>boxes.some(b=>x<b.x+b.w+8&&b.x<x+w+8&&y<b.y+b.h+8&&b.y<y+h+8);
@@ -2927,7 +2936,7 @@ setInterval(()=>{try{if(isScreen())twHands()}catch(e){}},1000);
 // ----- phone side: the pad in town, and the raise-hand button during the lectures -----
 function townPhone(me,G){const nm=ll(...(TW_NAME[G.town]||TW_NAME.pallet));
   const txt=G.ph==='free'?ll('הדמות שלך על המסך! החצים מזיזים אותה, A זורק פוקה בול.','Your character is on the screen! The arrows move it, A throws a Poké Ball.')
-    :G.ph==='go'?(G.to==='exit'?ll('מהר אל החץ בקצה המפה!','Quick, to the arrow at the edge of the map!'):ll('מהר אל הדלת של הג׳ים!','Quick, to the gym door!')):ll('רגע…','One moment…');
+    :G.ph==='go'?(G.to==='exit'?ll('מהר אל החץ בקצה המפה!','Quick, to the arrow at the edge of the map!'):G.place?ll('מהר לנקודת המפגש!','Quick, to the meeting point!'):ll('מהר אל הדלת של הג׳ים!','Quick, to the gym door!')):ll('רגע…','One moment…');
   return `<p class="eyebrow">${nm}</p><h1 style="margin:0 0 6px;font-size:26px">${txt}</h1>${gbPad()}`}
 function twHand(){if(!S.db||!S.me)return;if(Date.now()-(S.handAt||0)<6000){toast(ll('היד כבר מורמת','Your hand is already up'));return}S.handAt=Date.now();try{navigator.vibrate?.(20)}catch(e){}
   S.db.doc('stage/hand-'+S.me).set({at:Date.now()}).catch(()=>{});toast(ll('✋ הרמת יד','✋ Hand raised'))}
@@ -3242,7 +3251,7 @@ function pqShuffle(){S.pqPos={};const seed=String(ROOM.code||'')+String(S.state?
     const items=ord.flatMap(p=>[SEQ[p.a],SEQ[p.a+1]]);if(pairs.every(p=>p.a>=start&&p.a<start+pairs.length*2))SEQ.splice(start,items.length,...items);S.pqPos[key]=ord.map(p=>p.k)})}
 const pqPosOf=(key,k)=>{const o=S.pqPos?.[key];const i=o?o.indexOf(k):-1;return i>=0?i:PQ[key].items.findIndex(x=>x.k===k)};
 function leagueSpot(){const G=['s-memory','c-memory','d-battle','quizwin','pq-stats','pq-evo'];let last=null;for(let i=SEQ.length-1;i>=0;i--){if(!G.includes(SEQ[i].id))continue;if(last&&G.includes(SEQ[i+1]?.id))continue;if(!last&&/^pq-/.test(SEQ[i].id)){SEQ[i].final=true;last=SEQ[i];continue}if(last)continue;const it={kind:'league',id:'league',fin:true};last=it;SEQ.splice(i+1,0,it)}}
-function buildSeq(){const sk=skipSet();S.skipKey=JSON.stringify([...sk].sort());SEQ=[];S.slides.forEach((s,i)=>{if(!slideOn(s.id,sk))return;if(s.id==='closing')SEQ.push({kind:'awards',id:'awards'});if(s.id==='s-science')SEQ.push({kind:'lake',id:'s-lake'});if(s.id==='s-paradigm')SEQ.push({kind:'pika',id:'s-pika'});if(s.id==='s-buzz'&&!ROOM.legacy)SEQ.push({kind:'buzz',id:'s-buzz'});else SEQ.push({kind:'slide',i,id:s.id});if(s.id==='c-thinkers')SEQ.push({kind:'cmt',id:'c-cmt'});if(s.id==='s-science')SEQ.push({kind:'why',id:'s-why'});if(s.id==='x-finale')SEQ.push({kind:'hof',id:'hof'});if(s.id==='t-steel')SEQ.push({kind:'quizwin',id:'quizwin'})});if(twOn()){const c=SEQ.findIndex(x=>x.id==='cover');if(c>=0)SEQ.splice(c+1,0,{kind:'town',id:'w-pewter'});const k=SEQ.findIndex(x=>x.kind==='slide'&&courseOf(x.id)===2);if(k>0)SEQ.splice(k,0,{kind:'town',id:'w-cerulean'})}pqShuffle();leagueSpot()}
+function buildSeq(){const sk=skipSet();S.skipKey=JSON.stringify([...sk].sort());SEQ=[];S.slides.forEach((s,i)=>{if(!slideOn(s.id,sk))return;if(s.id==='closing')SEQ.push({kind:'awards',id:'awards'});if(s.id==='s-science')SEQ.push({kind:'lake',id:'s-lake'});if(s.id==='s-paradigm')SEQ.push({kind:'pika',id:'s-pika'});if(s.id==='s-buzz'&&!ROOM.legacy)SEQ.push({kind:'buzz',id:'s-buzz'});else SEQ.push({kind:'slide',i,id:s.id});if(s.id==='c-thinkers')SEQ.push({kind:'cmt',id:'c-cmt'});if(s.id==='s-science')SEQ.push({kind:'why',id:'s-why'});if(s.id==='x-finale')SEQ.push({kind:'hof',id:'hof'});if(s.id==='t-steel')SEQ.push({kind:'quizwin',id:'quizwin'})});if(twOn()){const c=SEQ.findIndex(x=>x.id==='cover');if(c>=0)SEQ.splice(c+1,0,{kind:'town',id:'w-pewter'});TW_AT.forEach(([id,w])=>{const k=w.course?SEQ.findIndex(x=>x.kind==='slide'&&courseOf(x.id)===w.course):SEQ.findIndex(x=>x.id===w.before);if(k>0)SEQ.splice(k,0,{kind:'town',id})})}pqShuffle();leagueSpot()}
 function skipSync(){if(!isScreen()||!S.slides||!SEQ.length)return;const k=JSON.stringify([...skipSet()].sort());if(k===S.skipKey)return;const id=cur()?.id,old=SEQ.slice(0,POS+1).map(x=>x.id);buildSeq();
   let p=SEQ.findIndex(x=>x.id===id);if(p<0){p=0;old.forEach(o=>{const j=SEQ.findIndex(x=>x.id===o);if(j>=0)p=j})}POS=p;HOF=0;SUB=0;show(true)}
 function sumApply(id){const sk=skipSet();if(!sk.size)return;const cv=$('#cv');
@@ -3353,7 +3362,7 @@ function btgSide(X){return {name:finalName(X.l),types:X.t,st:X.b.slice(0,6),spr:
 
 // one shared doc the phones follow: stage/game
 function gamePub(){if(!S.db)return;const it=cur();let d={g:null};
-  if(twOn()&&S.tw&&(it?.id==='cover'||it?.kind==='town'))d={g:'town',sid:S.tw.sid,town:S.tw.town,ph:S.tw.ph,to:S.tw.to};else
+  if(twOn()&&S.tw&&(it?.id==='cover'||it?.kind==='town'))d={g:'town',sid:S.tw.sid,town:S.tw.town,ph:S.tw.ph,to:S.tw.to,place:!!S.tw.leg?.place};else
   if(S.mem&&it?.id===S.mem.key){const M=S.mem,faces={};M.layout.forEach((id,i)=>{if(M.flips.includes(i)||M.matched[i]!=null)faces[i]=id});
     d={g:'mem',key:M.key,n:M.layout.length,cur:memCur(),end:M.end,tid:M.tid,flips:M.flips,matched:M.matched,faces,scores:M.scores,started:M.started,done:M.done,bonus:M.bonus}}
   else if(it?.id==='x-guess')d={g:'cg'};
